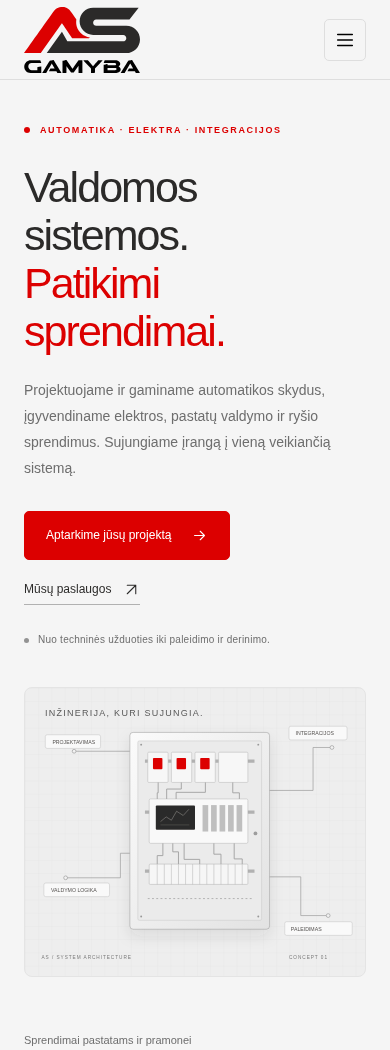
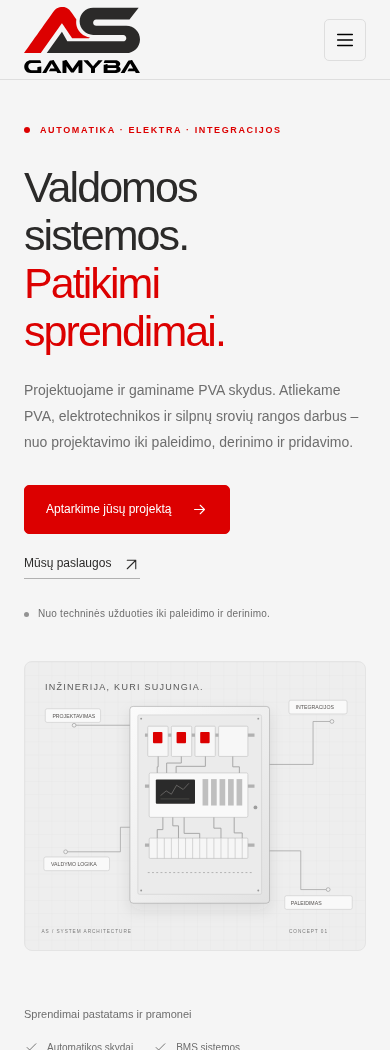
Add company contacts, legal details and specialist introduction

diff --git a/as-gamyba/public/assets/app.js b/as-gamyba/public/assets/app.js
@@ -7,4 +7,4 @@ nav?.addEventListener('click',event=>{if(event.target.closest('a'))closeMenu();}
 window.matchMedia('(min-width:801px)').addEventListener('change',event=>{if(event.matches)closeMenu();});
 const filters=document.querySelectorAll('[data-filter]');
 filters.forEach(button=>button.addEventListener('click',()=>{const value=button.dataset.filter;filters.forEach(b=>b.setAttribute('aria-pressed',String(b===button)));document.querySelectorAll('[data-category]').forEach(card=>{card.hidden=value!=='all'&&card.dataset.category!==value;});const count=[...document.querySelectorAll('[data-category]')].filter(c=>!c.hidden).length;const status=document.querySelector('.filtered-status');if(status)status.textContent=`Rodoma struktūrinių pavyzdžių: ${count}. Tai nėra įgyvendinti projektai.`;}));
-document.querySelector('[data-copy-brief]')?.addEventListener('click',async()=>{const text='Sveiki, MB „AS gamyba“,\n\nObjektas ir vieta: \nReikalingos paslaugos: \nEsama situacija / turima dokumentacija: \nPageidaujamas terminas: \nMano kontaktai: ';const status=document.querySelector('.copy-status');try{await navigator.clipboard.writeText(text);status.textContent='Užklausos ruošinys nukopijuotas. Papildykite ir išsiųskite įmonės el. paštu, kai jis bus pateiktas.';}catch{status.textContent='Automatinis kopijavimas nepasiekiamas. Pažymėkite ir nukopijuokite tekstą žemiau.';const area=document.createElement('textarea');area.value=text;area.setAttribute('aria-label','Užklausos ruošinys kopijavimui');area.style.cssText='width:100%;min-height:210px;margin-top:15px;padding:12px';status.after(area);area.select();}});
+document.querySelector('[data-copy-brief]')?.addEventListener('click',async()=>{const text='Sveiki, MB „AS gamyba“,\n\nObjektas ir vieta: \nReikalingos paslaugos: \nEsama situacija / turima dokumentacija: \nPageidaujamas terminas: \nMano kontaktai: ';const status=document.querySelector('.copy-status');try{await navigator.clipboard.writeText(text);status.textContent='Užklausos ruošinys nukopijuotas. Papildykite ruošinį ir išsiųskite nurodytu įmonės el. paštu.';}catch{status.textContent='Automatinis kopijavimas nepasiekiamas. Pažymėkite ir nukopijuokite tekstą žemiau.';const area=document.createElement('textarea');area.value=text;area.setAttribute('aria-label','Užklausos ruošinys kopijavimui');area.style.cssText='width:100%;min-height:210px;margin-top:15px;padding:12px';status.after(area);area.select();}});

diff --git a/as-gamyba/scripts/check_frontend.py b/as-gamyba/scripts/check_frontend.py
@@ -34,6 +34,17 @@ with sync_playwright() as p:
  page.get_by_role('button',name='Visos kryptys').click();assert page.locator('[data-category]:visible').count()==3
  context.grant_permissions(['clipboard-read','clipboard-write']);page.goto(BASE+'/kontaktai/');page.get_by_role('button',name='Kopijuoti užklausos ruošinį').click();page.wait_for_function("document.querySelector('.copy-status').textContent.includes('nukopijuotas')")
  assert 'Objektas ir vieta' in page.evaluate('navigator.clipboard.readText()')
+ assert page.locator('.contact-heading .todo').count()==0
+ assert page.locator('a[href="mailto:info@asgamyba.lt"]').count()>=1
+ assert page.locator('a[href="tel:+37061001713"]').count()>=1
+ for value in ['J. Janonio g. 8, Prienai','305725386','LT100013926116']:
+  assert value in page.locator('.contact-heading').inner_text()
+ assert page.get_by_role('link',name='Rašyti el. paštu').get_attribute('href').startswith('mailto:info@asgamyba.lt?subject=')
+ page.goto(BASE+'/kompetencijos/')
+ assert page.locator('time[datetime="2021-04-02"]').count()==1
+ assert 'Komandos narių asmens duomenų neviešiname' in page.locator('main').inner_text()
+ assert page.locator('.evidence-list .todo').count()==3
+
  # Verify all local navigation and asset URLs against the actual server.
  links=set()
  for route in routes:

diff --git a/as-gamyba/docs/TURINIO-SALTINIAI.md b/as-gamyba/docs/TURINIO-SALTINIAI.md
@@ -1,0 +1,11 @@
+# Turinio šaltiniai ir likę patikrinimai
+
+2026-10-15 įmonės atstovas pokalbyje pateikė kontaktus, įmonės ir PVM kodus, įkūrimo datą, veiklos aprašymą, domeną ir specialistų kvalifikacijos apibūdinimą. Šie duomenys įrašyti į svetainę kaip įmonės pateikta informacija. Nukopijuotoje rekvizitų lentelėje buvę „svg“ žymėjimai nėra duomenų dalis ir neįtraukti.
+
+Komandos narių vardai, pavardės ir asmeniniai dokumentai neviešinami. Projektais svetainė dar nepildoma.
+
+SSVA ir VERT viešų duomenų patikra neatlikta: bandymai pasiekti https://www.ssva.lt/ , https://www.vert.lt/ , ankstesnį https://www.spsc.lt/ ir paiešką aplinkoje grąžino tarpinio serverio `403 Forbidden`. Tai nėra dokumentų nebuvimo įrodymas. Nerodyti spėjamų dokumentų numerių, galiojimo, įmonės atestavimo sričių ar sertifikatų ženklų. Bendras teiginys apie specialistų SSVA atestatus pateiktas pagal įmonės atstovo informaciją; jis nėra nepriklausomos registrų patikros rezultatas.
+
+Likę patikrinimai: SSVA dokumentų numeriai, turėtojai ir darbų sritys; VERT dokumentų numeriai, turėtojai ir veiklos apimtis; abiejų dokumentų galiojimas ir viešintina apimtis.
+
+`asgamyba.lt` įrašytas kaip numatytas svetainės domenas. DNS, CNAME ir GitHub Pages custom domain nustatymai nekeisti. GitHub peržiūros buildas toliau naudoja `/test/` kelią ir preview URL per workflow aplinkos kintamuosius.

diff --git a/as-gamyba/docs/STRUKTURA-IR-DIZAINAS.md b/as-gamyba/docs/STRUKTURA-IR-DIZAINAS.md
@@ -23,7 +23,7 @@ Pradžia /
 │   ├── Patvirtinamų kompetencijų / dokumentų vieta
 │   └── Darbo eiga
 └── Kontaktai /kontaktai/
-    ├── Kontaktai ir rekvizitai — TODO
+    ├── Kontaktai ir rekvizitai
     └── Vietinis užklausos ruošinio kopijavimas
 ```
 
@@ -104,10 +104,10 @@ Kortelėse naudojamas antraštės, piktogramos, paaiškinimo ir kryptinės nuoro
 
 ## Turinio sąžiningumas ir neužbaigtos vietos
 
-- Kontaktai ir rekvizitai kol kas `TODO`. Telefono ir el. pašto nuorodos atsiras tik įvedus duomenis.
+- Kontaktai ir rekvizitai įvesti pagal įmonės pateiktus duomenis; el. pašto ir telefono nuorodos veikia.
 - Originalus logotipas pateiktas vartotojo ir naudojamas nekeičiant jo formos bei proporcijų.
 - Projektų kortelės nevaizduoja tikrų projektų. Filtrai leidžia išbandyti būsimos struktūros UX.
-- Komanda, istorija, dokumentai ir patvirtintos kvalifikacijos — `TODO`.
+- Įmonės įkūrimo data ir veiklos pristatymas įrašyti. Komandos nariai neviešinami. SSVA / VERT dokumentų numeriai, apimtis ir galiojimas lieka `TODO` iki registrų patikros.
 - Kontaktų forma nesiunčia duomenų: vietoje jos yra naudingas užklausos ruošinio kopijavimas.
 - Svetainė neindeksuojama: `noindex, nofollow` ir `robots.txt`. Prieš publikavimą reikia patvirtinti turinį, domeną ir pakeisti indeksavimo nustatymus.
 

diff --git a/as-gamyba/README.md b/as-gamyba/README.md
@@ -26,7 +26,7 @@ Kitas prievadas: `PORT=8080 npm run dev` (POSIX aplinkoje).
 - `/paslaugos/` — 8 paslaugų aprašymai, in-page navigacija, darbo eiga.
 - `/projektai/` — neutrali projektų struktūra su veikiančiais filtrais.
 - `/kompetencijos/` — įmonės kryptis, auditorijos ir kompetencijų pagrindimo vieta.
-- `/kontaktai/` — tikrų kontaktų vieta ir vietinis užklausos ruošinio kopijavimas.
+- `/kontaktai/` — įmonės pateikti kontaktai, rekvizitai, el. pašto nuoroda ir vietinis užklausos ruošinio kopijavimas.
 
 Sitemap, wireframe, tokenai ir UX sprendimai: [docs/STRUKTURA-IR-DIZAINAS.md](docs/STRUKTURA-IR-DIZAINAS.md).
 
@@ -91,3 +91,7 @@ node scripts/publish-pages.mjs
 ```
 
 `noindex` paliktas peržiūros puslapiuose. Tai nėra slaptažodžio apsauga: įjungta Pages peržiūra bus pasiekiama pagal jos adresą.
+
+## Turinio būsena
+
+Įvesti 2026-10-15 įmonės pateikti kontaktai, rekvizitai, įkūrimo data ir veiklos aprašymas. Specialistai pristatomi bendrai, jų asmeninės informacijos neviešinant. Tikri projektai atidedami vėlesniam etapui. SSVA / VERT dokumentų numerių, veiklos apimties ir galiojimo nepriklausoma patikra tebėra neatlikta dėl aplinkos tinklo apribojimo; žr. [turinio šaltinius](docs/TURINIO-SALTINIAI.md). Domenas asgamyba.lt įrašytas į konfigūraciją, DNS ir Pages domeno nustatymai nekeisti.
